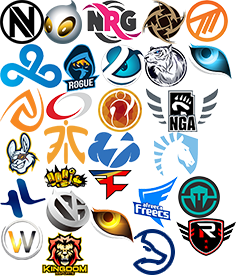
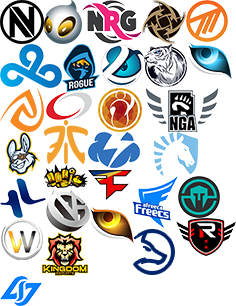
Added CLG flair

diff --git a/source/styles.css b/source/styles.css
@@ -1965,7 +1965,7 @@ only screen and (min-device-pixel-ratio: 2), only screen and (min-resolution: 2d
 }
 
 .side .md p+h4 {
-	margin-top: 16px;
+	margin-top: 12px;
 }
 
 .side .md h4 a {
@@ -1979,6 +1979,10 @@ only screen and (min-device-pixel-ratio: 2), only screen and (min-resolution: 2d
 }
 .side .md h4 a:hover {
 	text-decoration: underline;
+}
+
+.side .md h4+p {
+	margin-top: -6px;
 }
 
 /* Announcement/stickied links */
@@ -3389,7 +3393,7 @@ only screen and (-webkit-min-device-pixel-ratio: 2),
 only screen and (min-device-pixel-ratio: 2), only screen and (min-resolution: 2dppx) {
 	.flair-fan {
 		background: url(%%flairs-teams-2x%%) no-repeat;
-		background-size: 118px 138px;
+		background-size: 118px 153px;
 	}
 	.flair-faze {
 		width: 21px;
@@ -3517,6 +3521,10 @@ only screen and (min-device-pixel-ratio: 2), only screen and (min-resolution: 2d
 .flair-kingdom, .md a[href*="kingdom"] {
 	background-position: -22px -117px;
 	width: 23px;
+}
+.flair-clg, .md a[href*="clg"] {
+	background-position: 0 -138px;
+	height: 16px;
 }
 
 /* User flairs for ranks */
